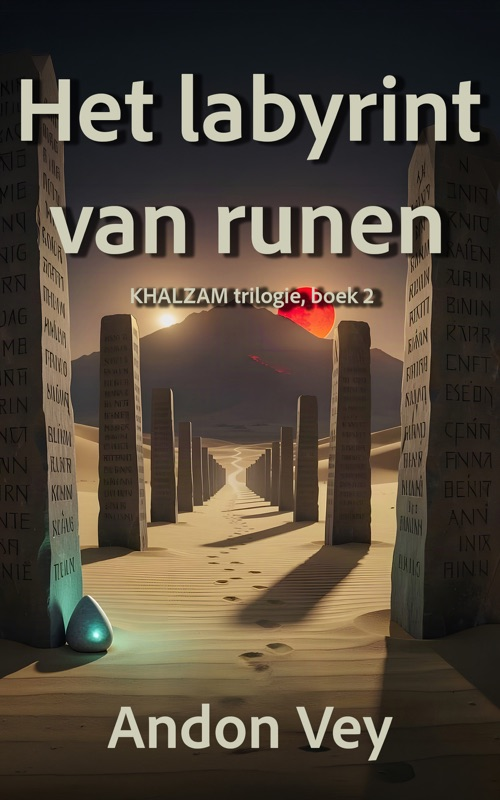
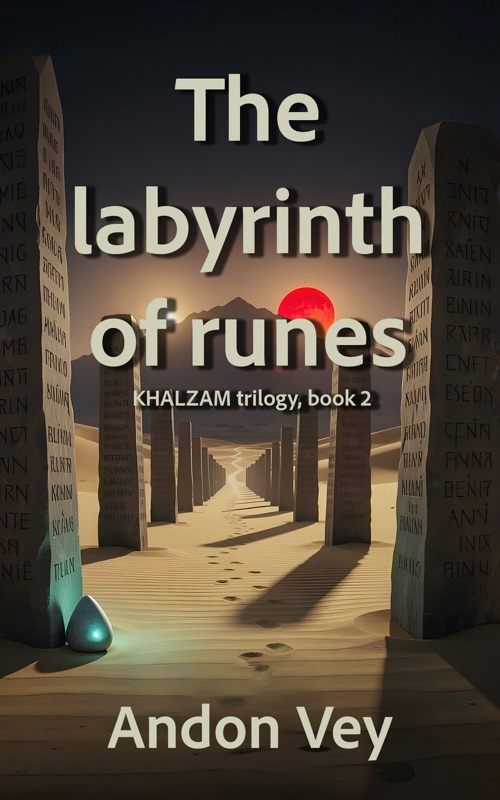
Engelse omslagen + boek 1 naar Coming Soon (#2)

diff --git a/books.html b/books.html
@@ -39,7 +39,7 @@
         <a href="/the-silent-mirror.html"><img src="/assets/img/cover-the-silent-mirror.jpg" alt="The Silent Mirror book cover"></a>
         <div class="book-copy">
           <h2>Book One &middot; The Silent Mirror</h2>
-          <p class="kicker">Available</p>
+          <p class="kicker">Coming Soon</p>
           <p>On Khalzam, everything that makes life possible lies deep beneath the sand. Tariq hears the water running, until at the Water Rite something opens that will not close again, and he walks into the dunes that very night. On the far side of the desert lies a city on black basalt, where a stone and a prophecy must both be answered.</p>
           <p style="margin-top:20px;"><a href="/the-silent-mirror.html" style="color:var(--copper-light); letter-spacing:0.14em; text-transform:uppercase; font-size:0.78rem; text-decoration:none; border-bottom:1px solid var(--copper); padding-bottom:2px;">About this book</a></p>
         </div>

diff --git a/the-silent-mirror.html b/the-silent-mirror.html
@@ -35,7 +35,7 @@
       <div class="book-copy">
         <p class="section-label" style="margin-bottom:14px;">Book One of the Khalzam Trilogy</p>
         <h2>The Silent Mirror</h2>
-        <p class="kicker">Epic Fantasy &middot; Available Now</p>
+        <p class="kicker">Epic Fantasy &middot; Coming Soon</p>
 
         <p>On Khalzam, two suns hang in the sky, and everything that makes life possible lies deep beneath the sand. Tariq hears it running: the stone around his neck trembles with the water veins under the desert. As long as he can follow that rhythm, he has a place among his people.</p>
 

diff --git a/index.html b/index.html
@@ -49,7 +49,7 @@
           <a href="/the-silent-mirror.html"><img src="/assets/img/cover-the-silent-mirror.jpg" alt="The Silent Mirror, book one of the Khalzam Trilogy"></a>
           <h2 class="book-title"><a href="/the-silent-mirror.html">The Silent Mirror</a></h2>
           <p class="book-sub">Book One</p>
-          <p class="status">Available</p>
+          <p class="status">Coming Soon</p>
         </div>
         <div class="book-card">
           <img src="/assets/img/cover-the-labyrinth-of-runes.jpg" alt="The Labyrinth of Runes, book two of the Khalzam Trilogy">
